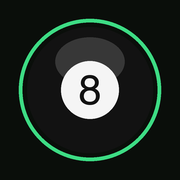
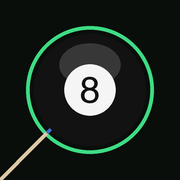
アイコンを「Cue Note」ブランドに刷新＋description調整
- gen_icons.py を更新：8ボール + 斜めキュー（青チョーク→ベージュシャフト→黒グリップ）
- icons/* を再生成して差し替え（PWAホーム画面アイコンに反映）
- manifest.webmanifest の description を「ビリヤード練習の気づきを記録するノート」に

Changed region(s): [[0.0, 0.0833, 0.9167, 1.0], [0.4167, 0.4167, 0.5556, 0.5833]]

diff --git a/gen_icons.py b/gen_icons.py
@@ -1,0 +1,84 @@
+# Cue Note 用アイコン生成（8ボール + キュー）。出力: icons/*.png
+from PIL import Image, ImageDraw, ImageFont
+import os, math
+
+OUT = os.path.join(os.path.dirname(__file__), "icons")
+os.makedirs(OUT, exist_ok=True)
+
+BG = (10, 14, 10)            # アプリ背景
+GREEN = (61, 220, 132)       # アクセント
+BLACK = (18, 18, 18)         # 8ボール
+WHITE = (245, 245, 245)      # 番号パッチ
+TIP = (62, 110, 200)         # キュー先端（青チョーク）
+SHAFT = (220, 200, 165)      # シャフト（薄ベージュ）
+GRIP = (45, 45, 50)          # グリップ
+
+FONT_PATH = "/System/Library/Fonts/Helvetica.ttc"
+
+
+def make(size, ball_frac, ring=True, cue=True):
+    s = size * 4  # 高解像度で描いて縮小（アンチエイリアス）
+    img = Image.new("RGB", (s, s), BG)
+    d = ImageDraw.Draw(img)
+    cx = cy = s / 2
+    R = s * ball_frac / 2
+
+    if ring:
+        rg = R + s * 0.045
+        d.ellipse([cx - rg, cy - rg, cx + rg, cy + rg],
+                  outline=GREEN, width=int(s * 0.022))
+
+    # 8ボール（黒）
+    d.ellipse([cx - R, cy - R, cx + R, cy + R], fill=BLACK)
+    # 上部のハイライト
+    hr = R * 0.55
+    hx, hy = cx, cy - R * 0.45
+    d.ellipse([hx - hr, hy - hr * 0.7, hx + hr, hy + hr * 0.7], fill=(55, 55, 55))
+    # 白の番号パッチ
+    wp = R * 0.46
+    d.ellipse([cx - wp, cy - wp, cx + wp, cy + wp], fill=WHITE)
+    # "8"
+    font = ImageFont.truetype(FONT_PATH, int(R * 0.66))
+    bbox = d.textbbox((0, 0), "8", font=font)
+    tw, th = bbox[2] - bbox[0], bbox[3] - bbox[1]
+    d.text((cx - tw / 2 - bbox[0], cy - th / 2 - bbox[1]), "8", font=font, fill=BLACK)
+
+    if cue:
+        # キュー：左下→右上方向。先端を球の左下表面に接触させる
+        angle = math.radians(45)  # 右上方向の単位ベクトル
+        # 先端位置（球の左下表面）：球中心から-45度方向にRだけ離れた点
+        tip_x = cx - R * math.cos(angle)
+        tip_y = cy + R * math.sin(angle)
+        # キュー全長
+        length = R * 2.4
+        # 各セグメント長
+        tip_len = length * 0.04   # 青チョーク
+        sh_len  = length * 0.62   # シャフト
+        # 先端→チョーク終わり
+        ax = tip_x - tip_len * math.cos(angle)
+        ay = tip_y + tip_len * math.sin(angle)
+        # チョーク終わり→シャフト終わり
+        bx = ax - sh_len * math.cos(angle)
+        by = ay + sh_len * math.sin(angle)
+        # シャフト終わり→末端
+        cx2 = tip_x - length * math.cos(angle)
+        cy2 = tip_y + length * math.sin(angle)
+        # 描画
+        d.line([(tip_x, tip_y), (ax, ay)], fill=TIP, width=int(s * 0.020))
+        d.line([(ax, ay), (bx, by)], fill=SHAFT, width=int(s * 0.022))
+        d.line([(bx, by), (cx2, cy2)], fill=GRIP, width=int(s * 0.026))
+
+    return img.resize((size, size), Image.LANCZOS)
+
+
+# 通常アイコン
+make(512, 0.62).save(os.path.join(OUT, "icon-512.png"))
+make(192, 0.62).save(os.path.join(OUT, "icon-192.png"))
+# maskable（中央セーフゾーン）
+make(512, 0.50, ring=True).save(os.path.join(OUT, "icon-maskable-512.png"))
+# iOS apple-touch-icon
+make(180, 0.62).save(os.path.join(OUT, "apple-touch-icon.png"))
+# favicon（小さいのでキュー省略）
+make(32, 0.74, ring=False, cue=False).save(os.path.join(OUT, "favicon-32.png"))
+
+print("icons generated:", os.listdir(OUT))
